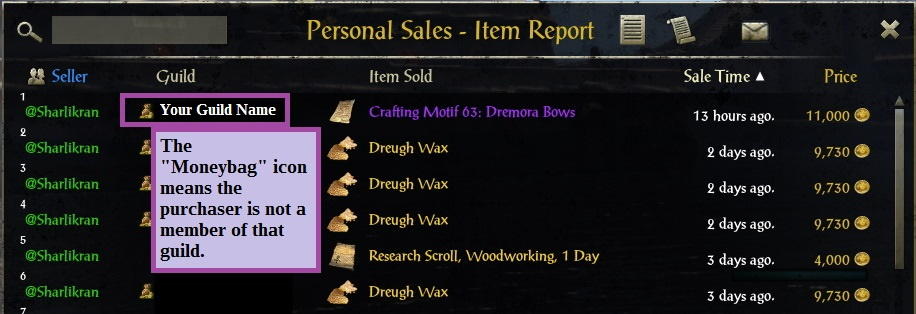
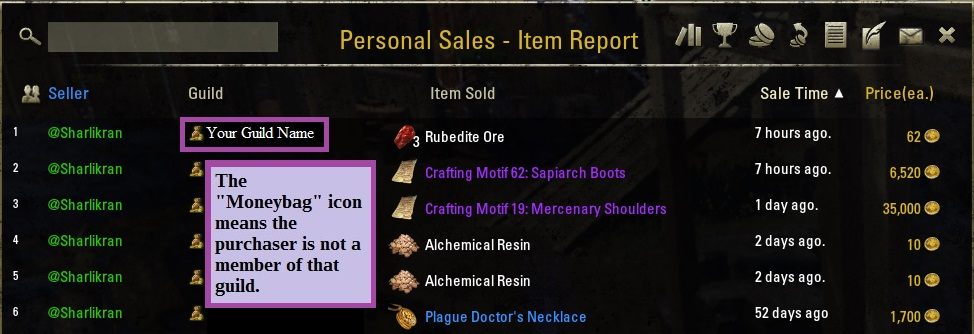
First updates

diff --git a/3-master_merchant.html b/3-master_merchant.html
@@ -18,6 +18,12 @@ title: Master Merchant
 <p class="empty">&nbsp;</p>
 <div>
 <!-- Needed, sets the top of the page just before the H1 Title -->
+<h1 class="header1" id="UnderConstruction">Under Construction</h1>
+<p class="empty">&nbsp;</p>
+<p>{% include image.html file="img/under_construction.jpg" alt="under_construction" %}</p>
+<p class="empty">&nbsp;</p>
+<p>The site is undergoing changes to the images for 3.6.x so the screen shots, icons, settings  menus, and menu description may not resemble 3.5.30.</p>
+<p class="empty">&nbsp;</p>
 <h2 class="header2" id="Contents">Contents</h2>
 <p class="list-1">&bull;&nbsp; <a href="#Authors">3.1 Authors</a></p>
 <p class="list-1">&bull;&nbsp; <a href="#VersionHistory">3.2 Version History</a></p>
@@ -26,6 +32,7 @@ title: Master Merchant
 <p class="list-2">&bull;&nbsp; <a href="#ShoppingList">3.4.1 Shopping List</a></p>
 <p class="list-2">&bull;&nbsp; <a href="#Bonanza">3.4.2 Bonanza!</a></p>
 <p class="list-2">&bull;&nbsp; <a href="#BonanzaNameFilter">3.4.3 Bonanza Name Filter</a></p>
+<p class="list-2">&bull;&nbsp; <a href="#BonanzaTypeFilter">3.4.4 Bonanza Type Filter</a></p>
 <p class="list-1">&bull;&nbsp; <a href="#LibGuildStoreforMasterMerchant">3.5 LibGuildStore for Master Merchant</a></p>
 <p class="list-1">&bull;&nbsp; <a href="#Scanning">3.6 Scanning</a></p>
 <p class="list-2">&bull;&nbsp; <a href="#BackgroundScanningDepreciated">3.6.1 Background Scanning Depreciated</a></p>
@@ -122,22 +129,22 @@ title: Master Merchant
 <p class="empty">&nbsp;</p>
 <p>{% include image.html file="img/bonanza_window_filter.jpg" alt="bonanza_window_filter" %}</p>
 <p class="empty">&nbsp;</p>
-<p>When completed 3.6.x will have both a name and type filter.</p>
+<h2 id="BonanzaTypeFilter">3.4.4 - Bonanza Type Filter</h2>
+<p class="empty">&nbsp;</p>
+<p>{% include image.html file="img/bonanza_window_filter_type.jpg" alt="bonanza_window_filter_type" %}</p>
 <p class="empty">&nbsp;</p>
 <h1 class="header1" id="LibGuildStoreforMasterMerchant">3.5 - LibGuildStore for Master Merchant</h1>
 <p class="empty">&nbsp;</p>
-<p>LibGuildStore was created to facilitate converting MM sales data from the old format to a new format that uses less space. LGS will also keep track of purchases for the Shopping List module as well as sold and canceled items.</p>
+<p>LibGuildStore was created to facilitate converting MM sales data from the old format to a new format that uses less space. LGS will also keep track of purchases for the Shopping List module, sold and canceled items, and contains listings from other traders. Bonanza will provide you with a snapshot of the last 24 hours of items you have seen when visiting traders.</p>
 <p class="empty">&nbsp;</p>
-<p>Once completed Bonanza will provide you with a snapshot of the last 24 hours of items you have seen when visiting traders. <font class="orange">(Currently uncompleted)</font></p>
-<p class="empty">&nbsp;</p>
-<p>For those testing MM 3.6.x you will need to be aware of a few changes.</p>
+<p>For those upgrading to MM 3.6.x you will need to be aware of a few changes.</p>
 <p class="empty">&nbsp;</p>
 <p class="list-1">&bull;&nbsp; The first run of MM and LibGuildStore will take a while LibHistoire processes all the sales data.</p>
   <p class="list-2">&bull;&nbsp; MM and ATT data are not automatically imported</p>
 <p class="list-1">&bull;&nbsp; <a  href="#DataManagementOptions" >Data Management</a> settings is now under LibGuildStore</p>
 <p class="list-1">&bull;&nbsp; the MMxxData (MM00Data, MM01Data, etc.) modules are used for importing data only</p>
-<p class="list-1">&bull;&nbsp; MM no longer records sales from LibHistoire.</p>
-<p class="list-1">&bull;&nbsp; LibGuildStore allows you to import from LibHistoire using the Refresh option, and you may import from MM or ATT</p>
+<p class="list-1">&bull;&nbsp; LGS stores all sales from LibHistoire</p>
+<p class="list-1">&bull;&nbsp; LibGuildStore allows you to import from LibHistoire using the Refresh option, and you may import sales and purchaces from MM or ATT</p>
 <p class="empty">&nbsp;</p>
 <input type="checkbox" id="spoiler1" />
 <label for="spoiler1">Disable MM Modules</label>
@@ -275,10 +282,12 @@ title: Master Merchant
 <div id="PeopleIcon"></div>
 <p>{% include image-inline.html max-width="24px" file="img/people_icon.jpg" alt="people_icon" %} Cycles through: <font class="tan">Seller</font>, All sales totals by Seller. <font class="tan">Item Sold</font>, Top selling ITEMS. <font class="tan">Buyer</font>, All purchase totals by Buyer.</p>
 <div id="ParchmentPaper"></div>
-<p>{% include image-inline.html max-width="24px" file="img/toggle_seller_item.jpg" alt="toggle_seller_item" %} <font class="tan">Seller Info</font> Guild Ranks, <font class="tan">Item Info</font> Your Info or All Info.</p>
 <p>{% include image-inline.html max-width="24px" file="img/open_statistics_window.jpg" alt="open_statistics_window" %} Opens the <a  href="#StatisticsWindow" >Statistics Window</a>.</p>
+<p>{% include image-inline.html max-width="24px" file="img/toggle_seller_item.jpg" alt="toggle_seller_item" %} <font class="tan">Seller Info</font> Guild Ranks, <font class="tan">Item Info</font> Your Info or All Info.</p>
+<p>{% include image-inline.html max-width="24px" file="img/shopping_list.jpg" alt="shopping_list" %} The <font class="tan">Shopping List</font> icon allows you to view purchases you have made from guild stores.</p>
+<p>{% include image-inline.html max-width="24px" file="img/bonanza_icon.jpg" alt="bonanza_icon" %} The <font class="tan">Bonanza</font> icon allows you view trader listings you have seen at other guild stores.</p>
+<p>{% include image-inline.html max-width="24px" file="img/reports_icon.jpg" alt="reports_icon" %} The <font class="tan">Management</font> view lets you see posted and canceled sales. The information will be used in the future to notify you of any items you may have sold that have been flipped. <font class="orange">(Future update)</font></p>
 <p>{% include image-inline.html max-width="24px" file="img/mail_icon.jpg" alt="mail_icon" %} Sends mail to the author with an optional donation amount.</p>
-<p>{% include image-inline.html max-width="24px" file="img/shopping_list.jpg" alt="shopping_list" %} The <font class="tan">Shopping List</font> icon allows you to select the installed extension and view purchases you have made from guild stores.</p>
 <p>{% include image-inline.html max-width="24px" file="img/money_bag.jpg" alt="money_bag" %} The <font class="tan">Moneybag</font> icon means the purchaser is not a member of that guild.</p>
 <p class="empty">&nbsp;</p>
 <p class="note"><font class="tan">Item Sold</font> is only available from a Seller's Report.</p>
